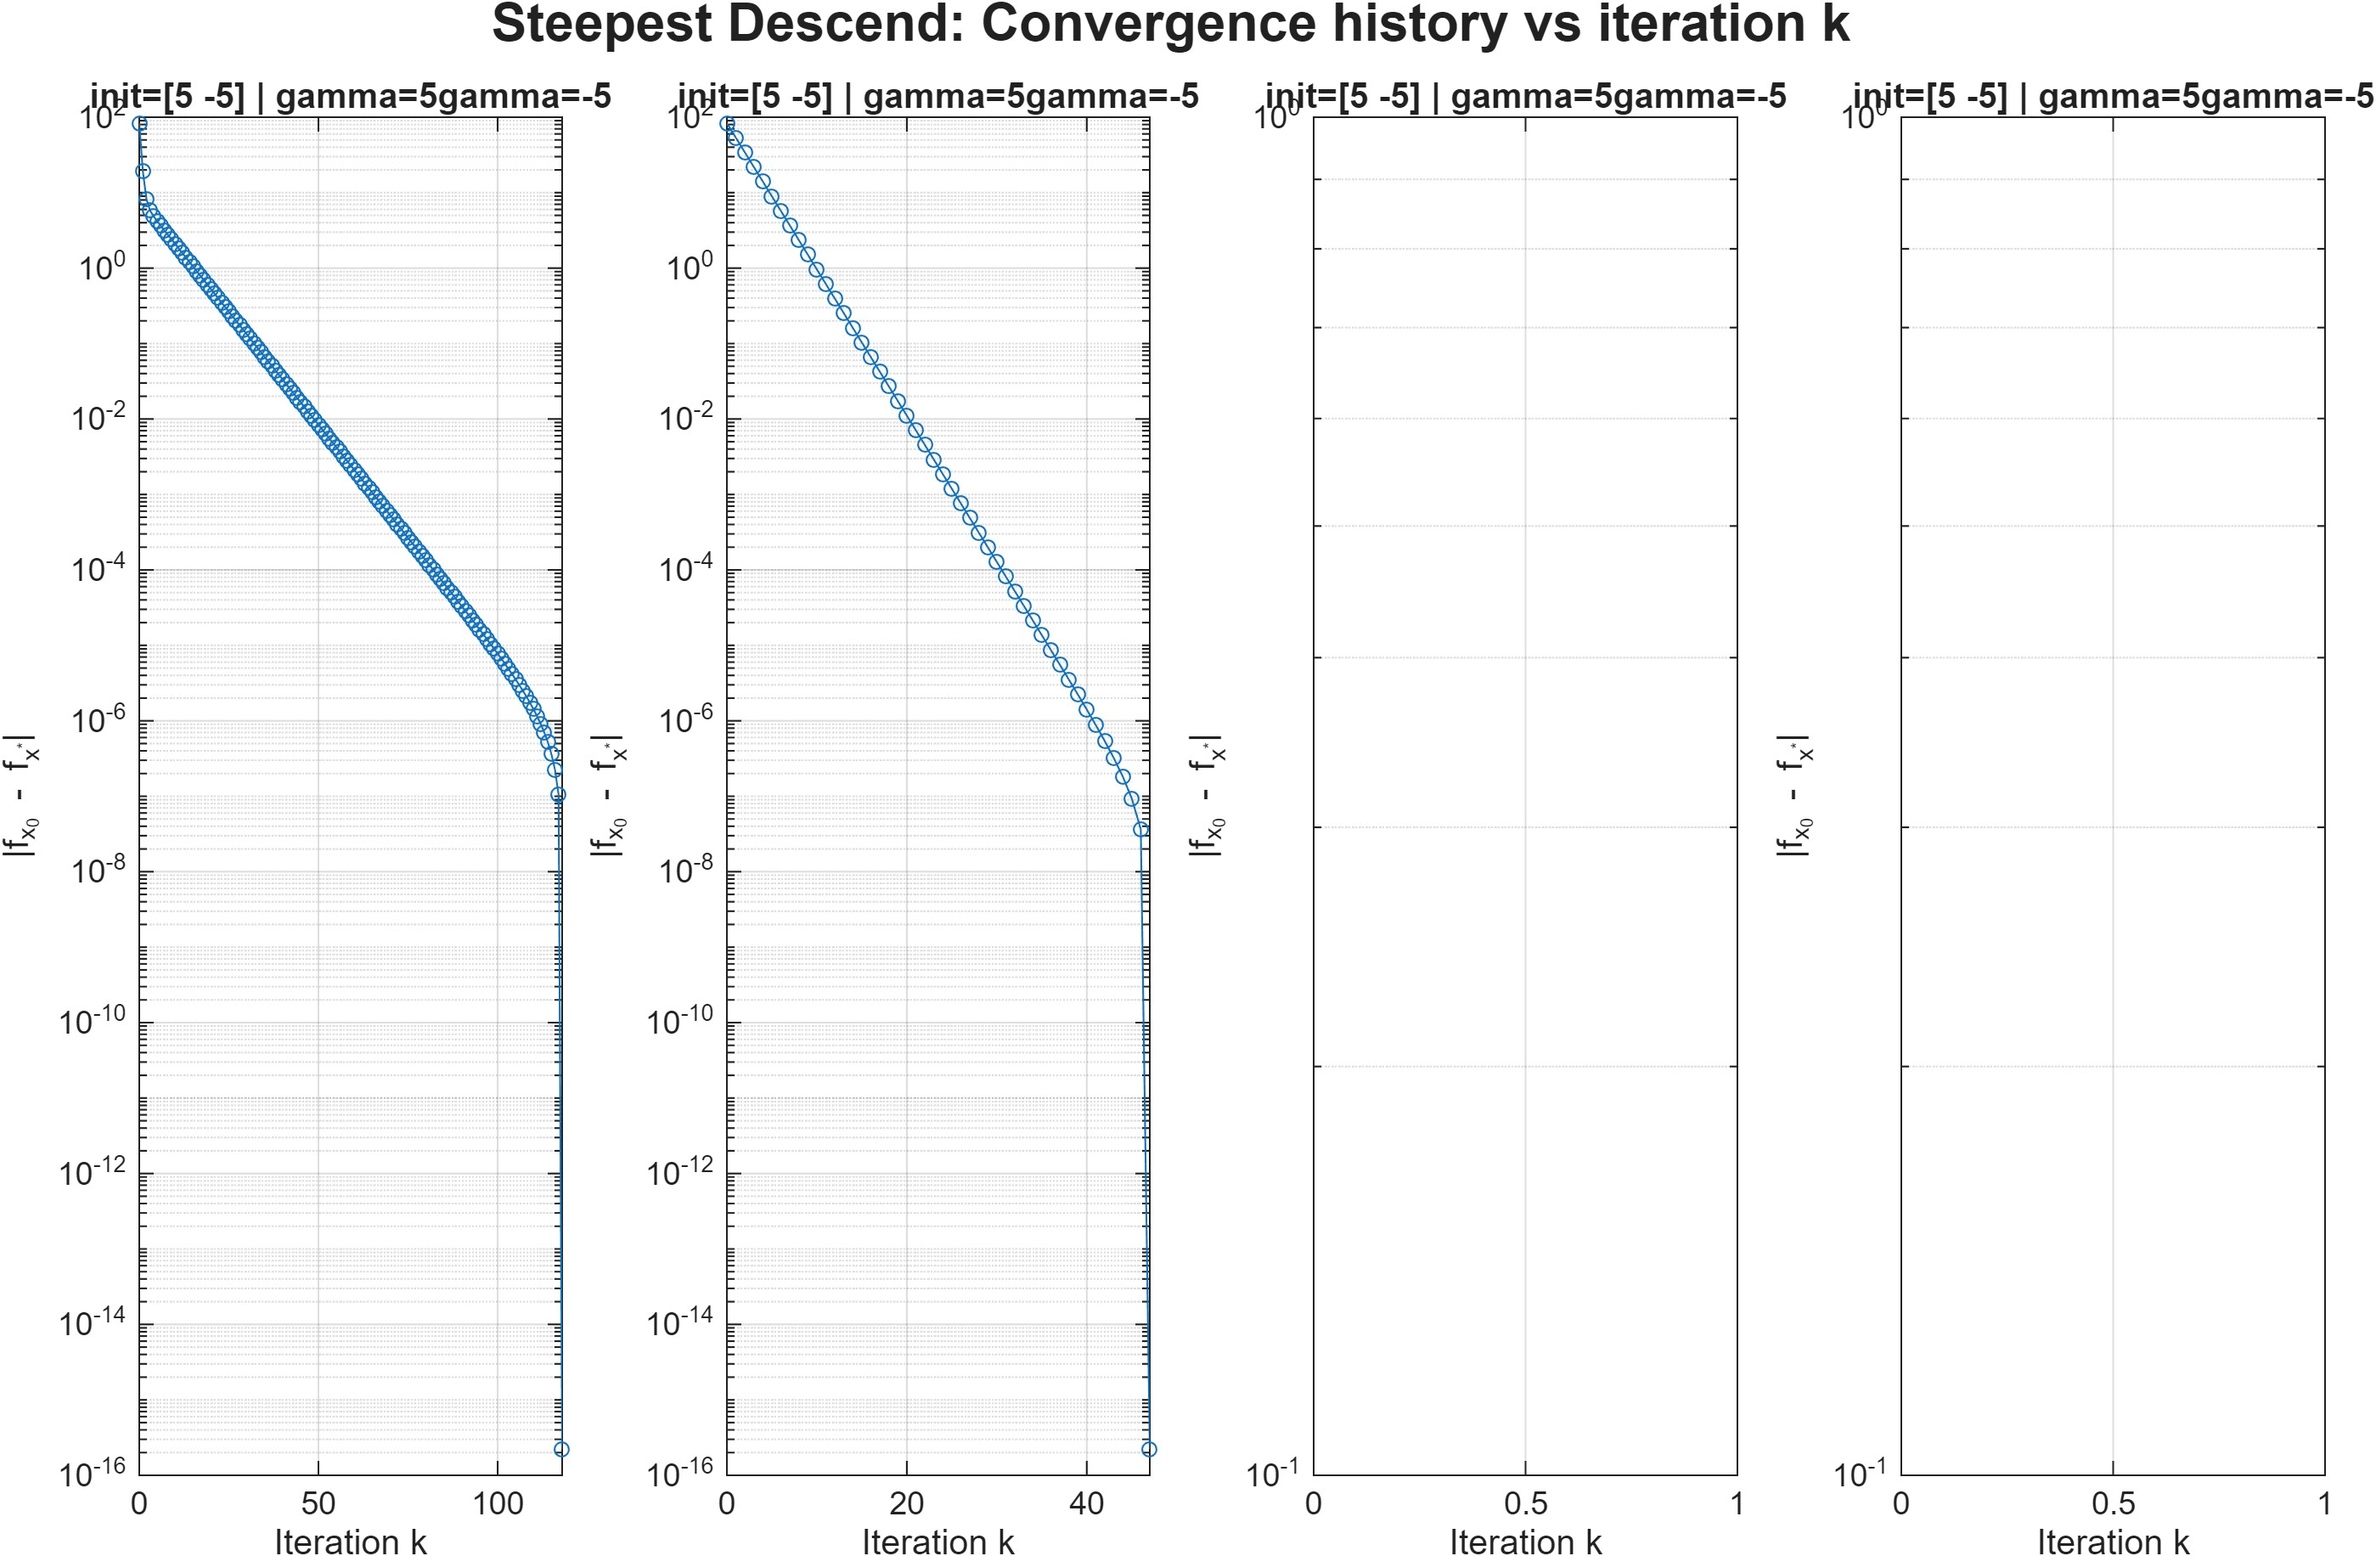
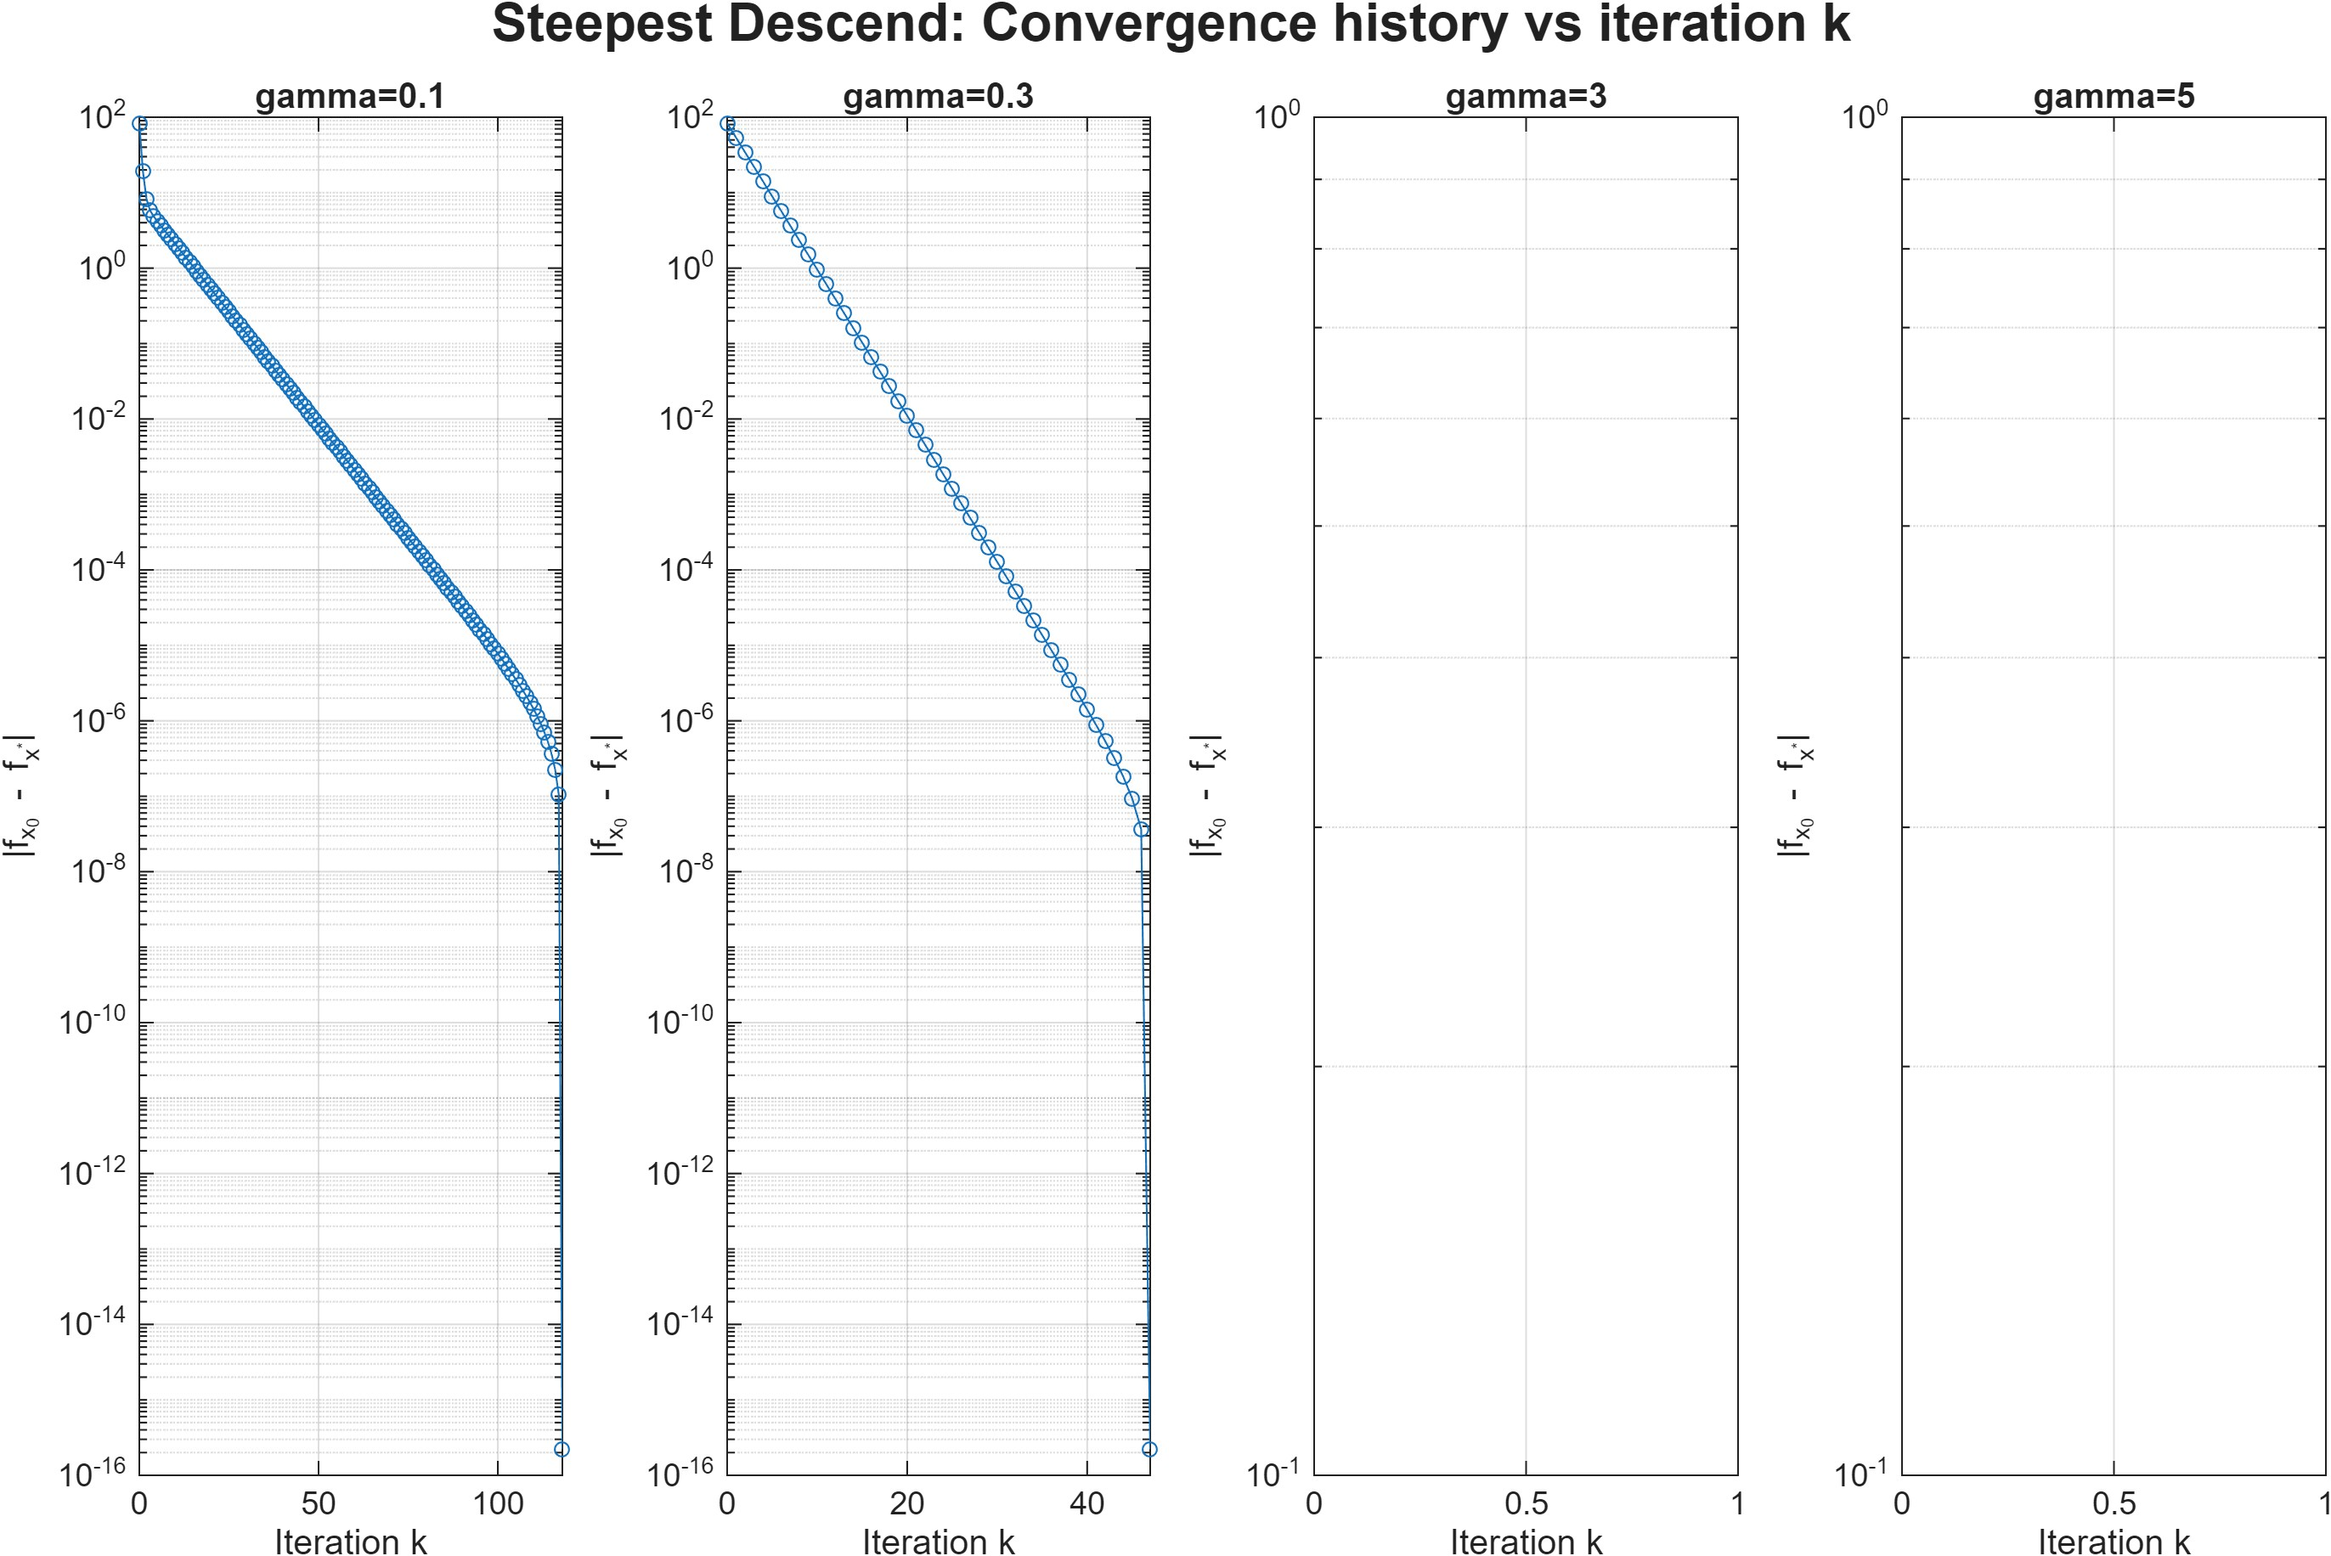
update plots

diff --git a/assignment3/visualization.m b/assignment3/visualization.m
@@ -36,7 +36,10 @@ fill3([x1_max x1_max x1_max x1_max], [x2_min x2_max x2_max x2_min], [0 0 zmax zm
 fill3([x1_min x1_max x1_max x1_min], [x2_max x2_max x2_max x2_max], [0 0 zmax zmax], 'k', 'FaceAlpha', 0.5, 'EdgeColor', 'k', 'LineWidth',1.5);
 fill3([x1_min x1_min x1_min x1_min], [x2_min x2_max x2_max x2_min], [0 0 zmax zmax], 'k', 'FaceAlpha', 0.5, 'EdgeColor', 'k', 'LineWidth',1.5);
 
-legend(min_surf, 'Unconstrained Minimum f(0,0)=0', 'Location', 'northeast');
+hRegion = plot3(NaN, NaN, NaN, 'k-', 'LineWidth', 3);
+legend([min_surf, hRegion], ...
+       {'Unconstrained Minimum (0,0)', 'Feasible Region'}, ...
+       'Location','northeast');
 
 hold off;
 
@@ -54,9 +57,11 @@ colorbar;
 
 min_cont = plot(xmin(1), xmin(2), 'r*', 'MarkerSize', 20, 'LineWidth', 3);
 
-plot([x1_min x1_max x1_max x1_min x1_min], [x2_min x2_min x2_max x2_max x2_min], 'k-', 'LineWidth', 4);
+hRegion = plot([x1_min x1_max x1_max x1_min x1_min], [x2_min x2_min x2_max x2_max x2_min], 'k-', 'LineWidth', 4);
 
-legend(min_cont, 'Unconstrained Minimum f(0,0)=0', 'Location', 'northeast');
+legend([min_cont, hRegion], ...
+       {'Unconstrained Minimum (0,0)', 'Feasible Region'}, ...
+       'Location','northeast');
 
 hold off;
 

diff --git a/assignment3/tasks/task1.m b/assignment3/tasks/task1.m
@@ -54,10 +54,7 @@ for j = 1:ngammas
     semilogy(0:numel(hs)-1, conv, '-o', 'MarkerSize', 4);
     grid on;
 
-    init = sprintf('[%g %g]', x0(1), x0(2));
-    gamma = sprintf('gamma=%.3g', results{j,2});
-
-    title(sprintf('init=%s | %s', init, gamma), 'FontWeight', 'bold');
+    title(sprintf('gamma=%.3g', results{j,1}), 'FontWeight', 'bold');
     xlabel('Iteration k');
     ylabel('|f_{x_0} - f_{x^*}|');
 end
